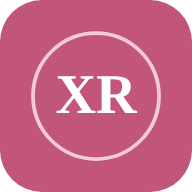
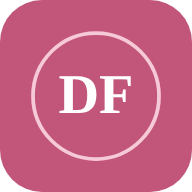
Cambiar el nombre de la instructora a Daniela Fuentes
Claude-Session: https://claude.ai/code/session_01KtQGLWNHnEBEgJ6MXtKwVP

Changed region(s): [[0.2812, 0.375, 0.7188, 0.5938], [0.2812, 0.375, 0.3125, 0.4062]]

diff --git a/index.html b/index.html
@@ -3,8 +3,8 @@
   <head>
     <meta charset="UTF-8" />
     <meta name="viewport" content="width=device-width, initial-scale=1.0, viewport-fit=cover" />
-    <title>Pilates en Casa · Ximena Robles</title>
-    <meta name="description" content="Pilates en Casa con Ximena Robles: Tu cuerpo fuerte, tu mente en calma. Todo desde tu casa." />
+    <title>Pilates en Casa · Daniela Fuentes</title>
+    <meta name="description" content="Pilates en Casa con Daniela Fuentes: Tu cuerpo fuerte, tu mente en calma. Todo desde tu casa." />
     <meta name="theme-color" content="#c2557a" />
     <link rel="icon" type="image/svg+xml" href="/icon.svg" />
     <link rel="apple-touch-icon" href="/icon-192.png" />

diff --git a/src/config.ts b/src/config.ts
@@ -5,7 +5,7 @@
 // ─────────────────────────────────────────────────────────────
 
 export const BRAND = {
-  instructor: 'Ximena Robles',
+  instructor: 'Daniela Fuentes',
   courseTitle: 'Pilates en Casa',
   tagline: 'Tu cuerpo fuerte, tu mente en calma. Todo desde tu casa.',
   badge: 'PILATES EN CASA',

diff --git a/README.md b/README.md
@@ -1,4 +1,4 @@
-# Pilates en Casa · Ximena Robles
+# Pilates en Casa · Daniela Fuentes
 
 Variação visual **Rosa Suave**. Área de alunas em espanhol mexicano: login só com telefone (+ nome opcional), painel com progresso,
 3 módulos (Desafío 24 aulas, Estiramientos 3, Fortalecimiento 3), página da aula com vídeo do
